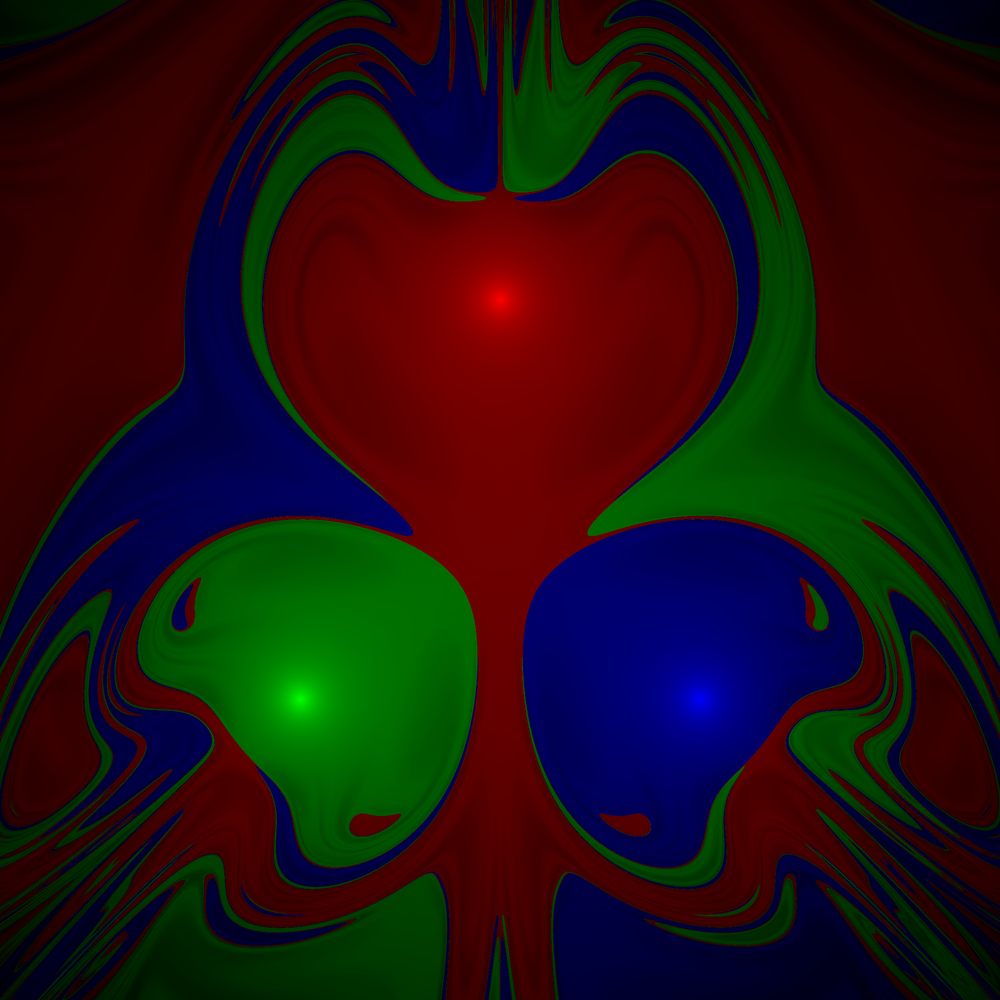
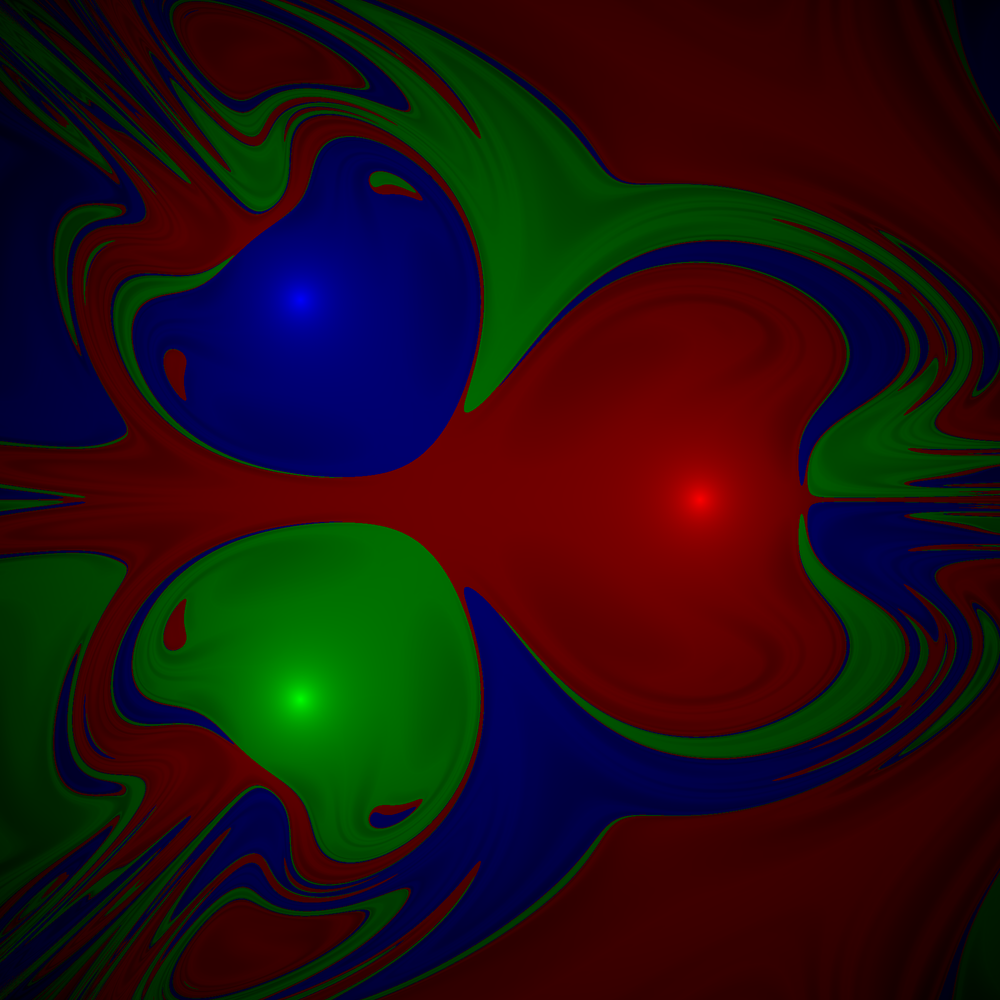
Fixed image orientation problem

diff --git a/src/graphics.py b/src/graphics.py
@@ -31,7 +31,7 @@ class ImageGenerator(object):
             image = image.resize((width / 2, height / 2), Image.ANTIALIAS)
         
         print "  Saving image...",        
-        image.transpose(Image.FLIP_TOP_BOTTOM).save(file_name + ".png", "PNG")
+        image.rotate(90).save(file_name + ".png", "PNG")
         print "done"
 
     def _colorize_pixel(self, color_number, track_value):
